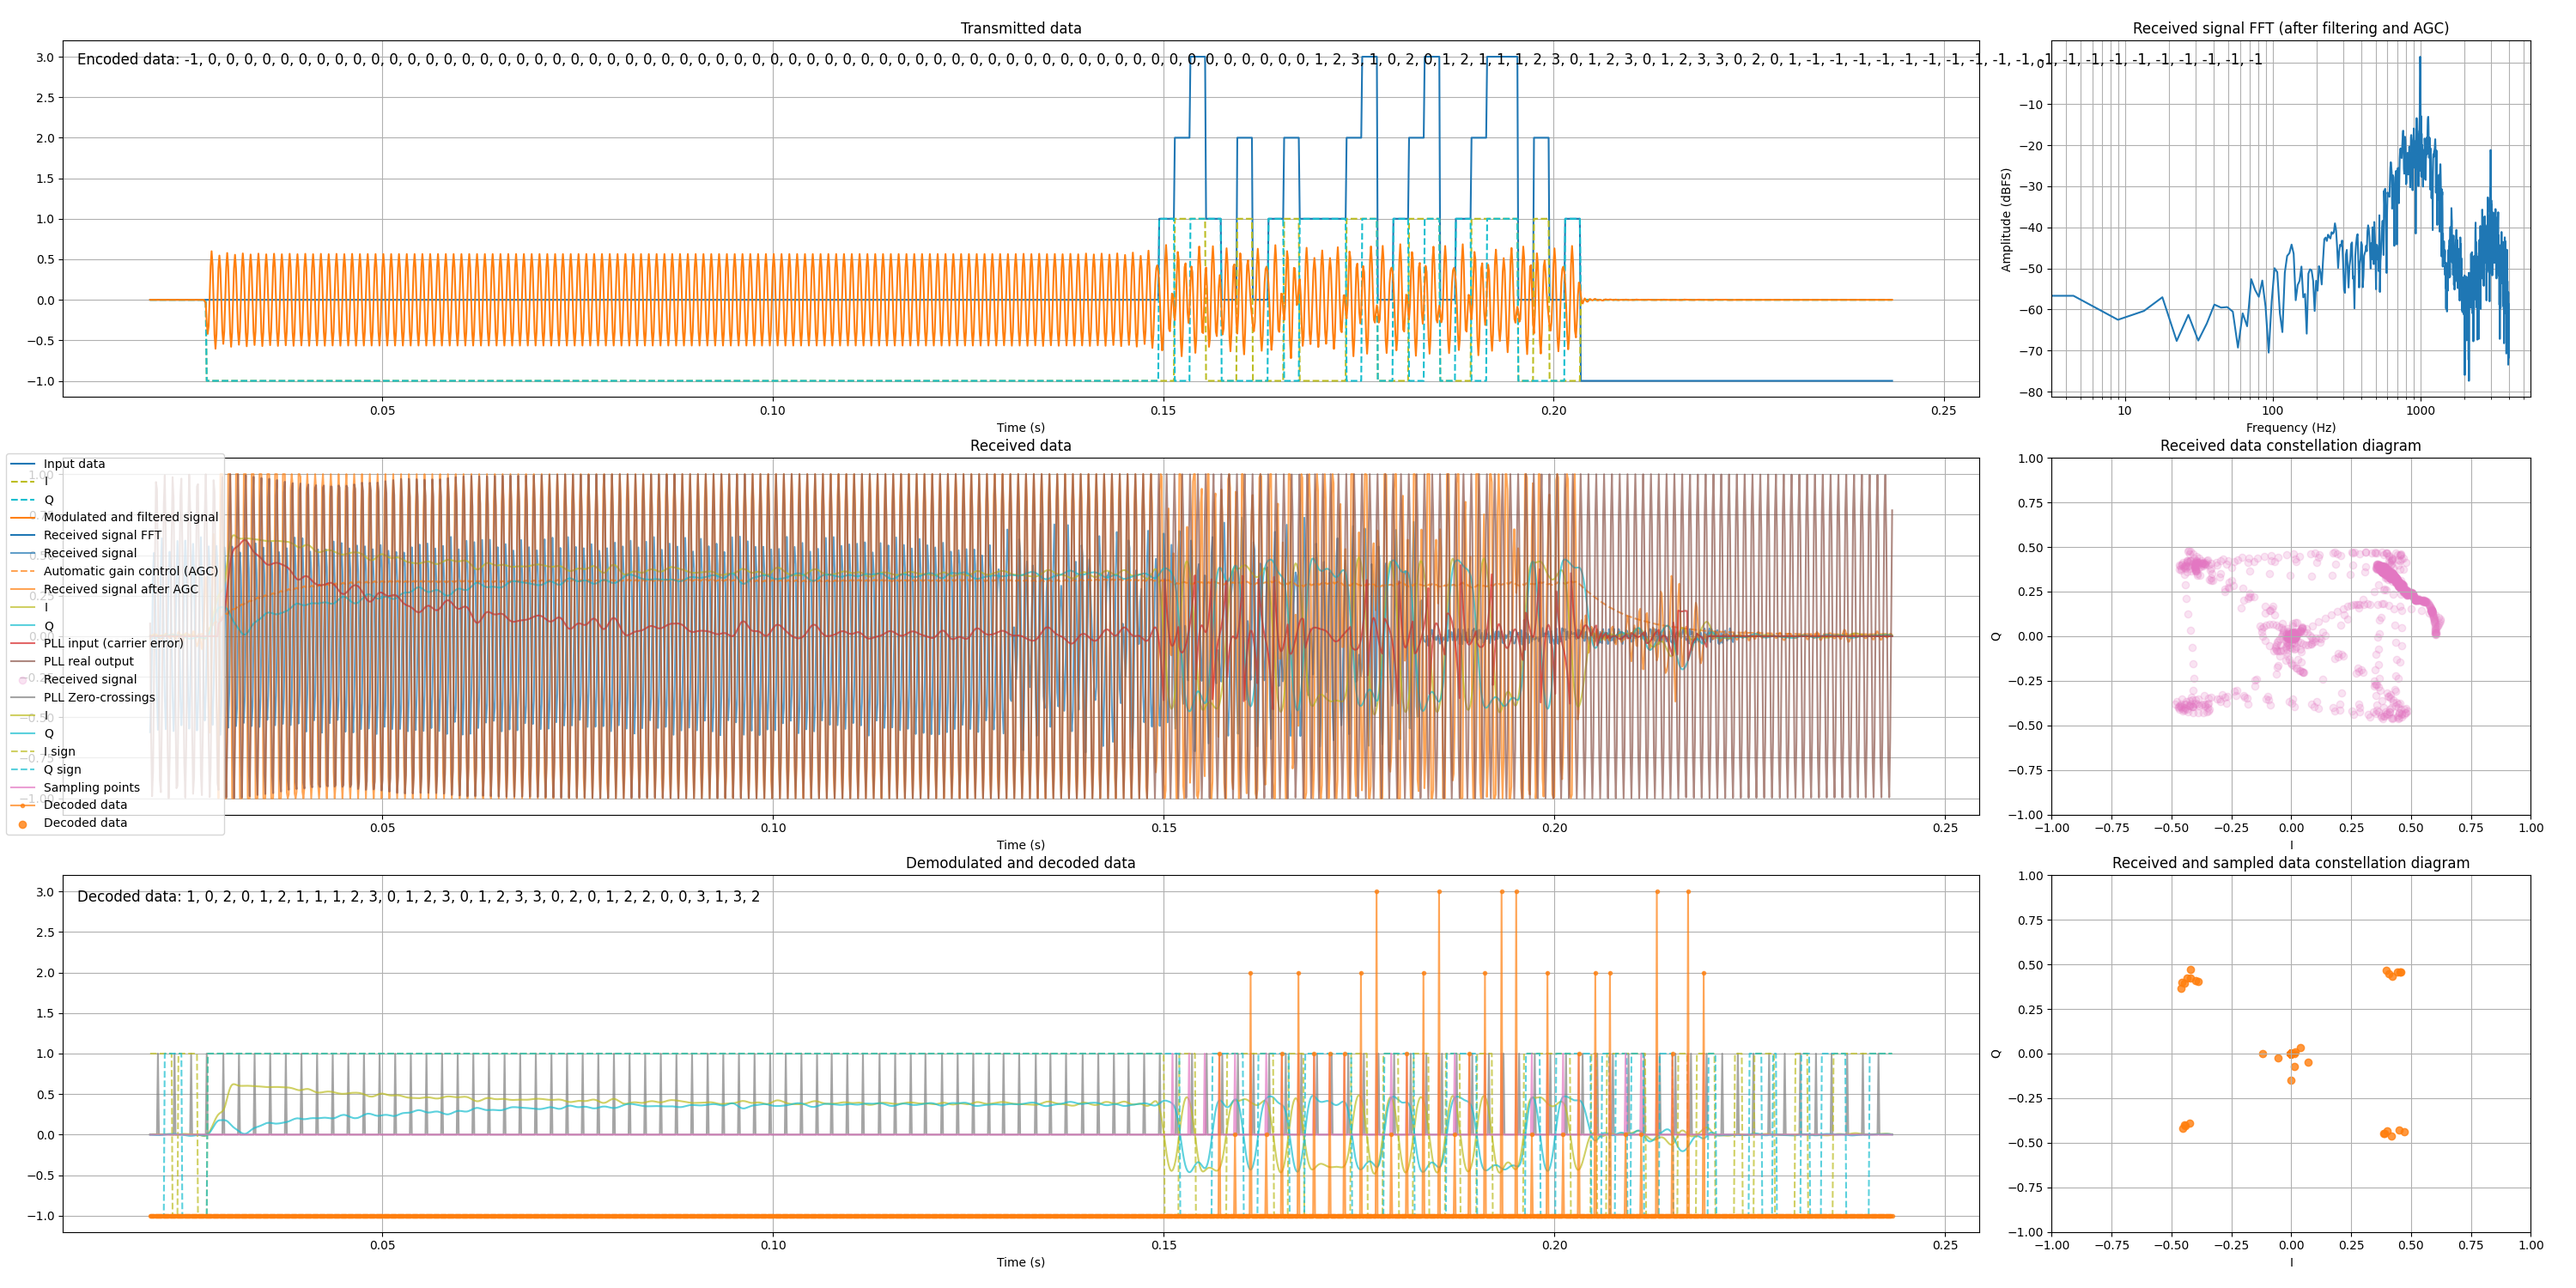
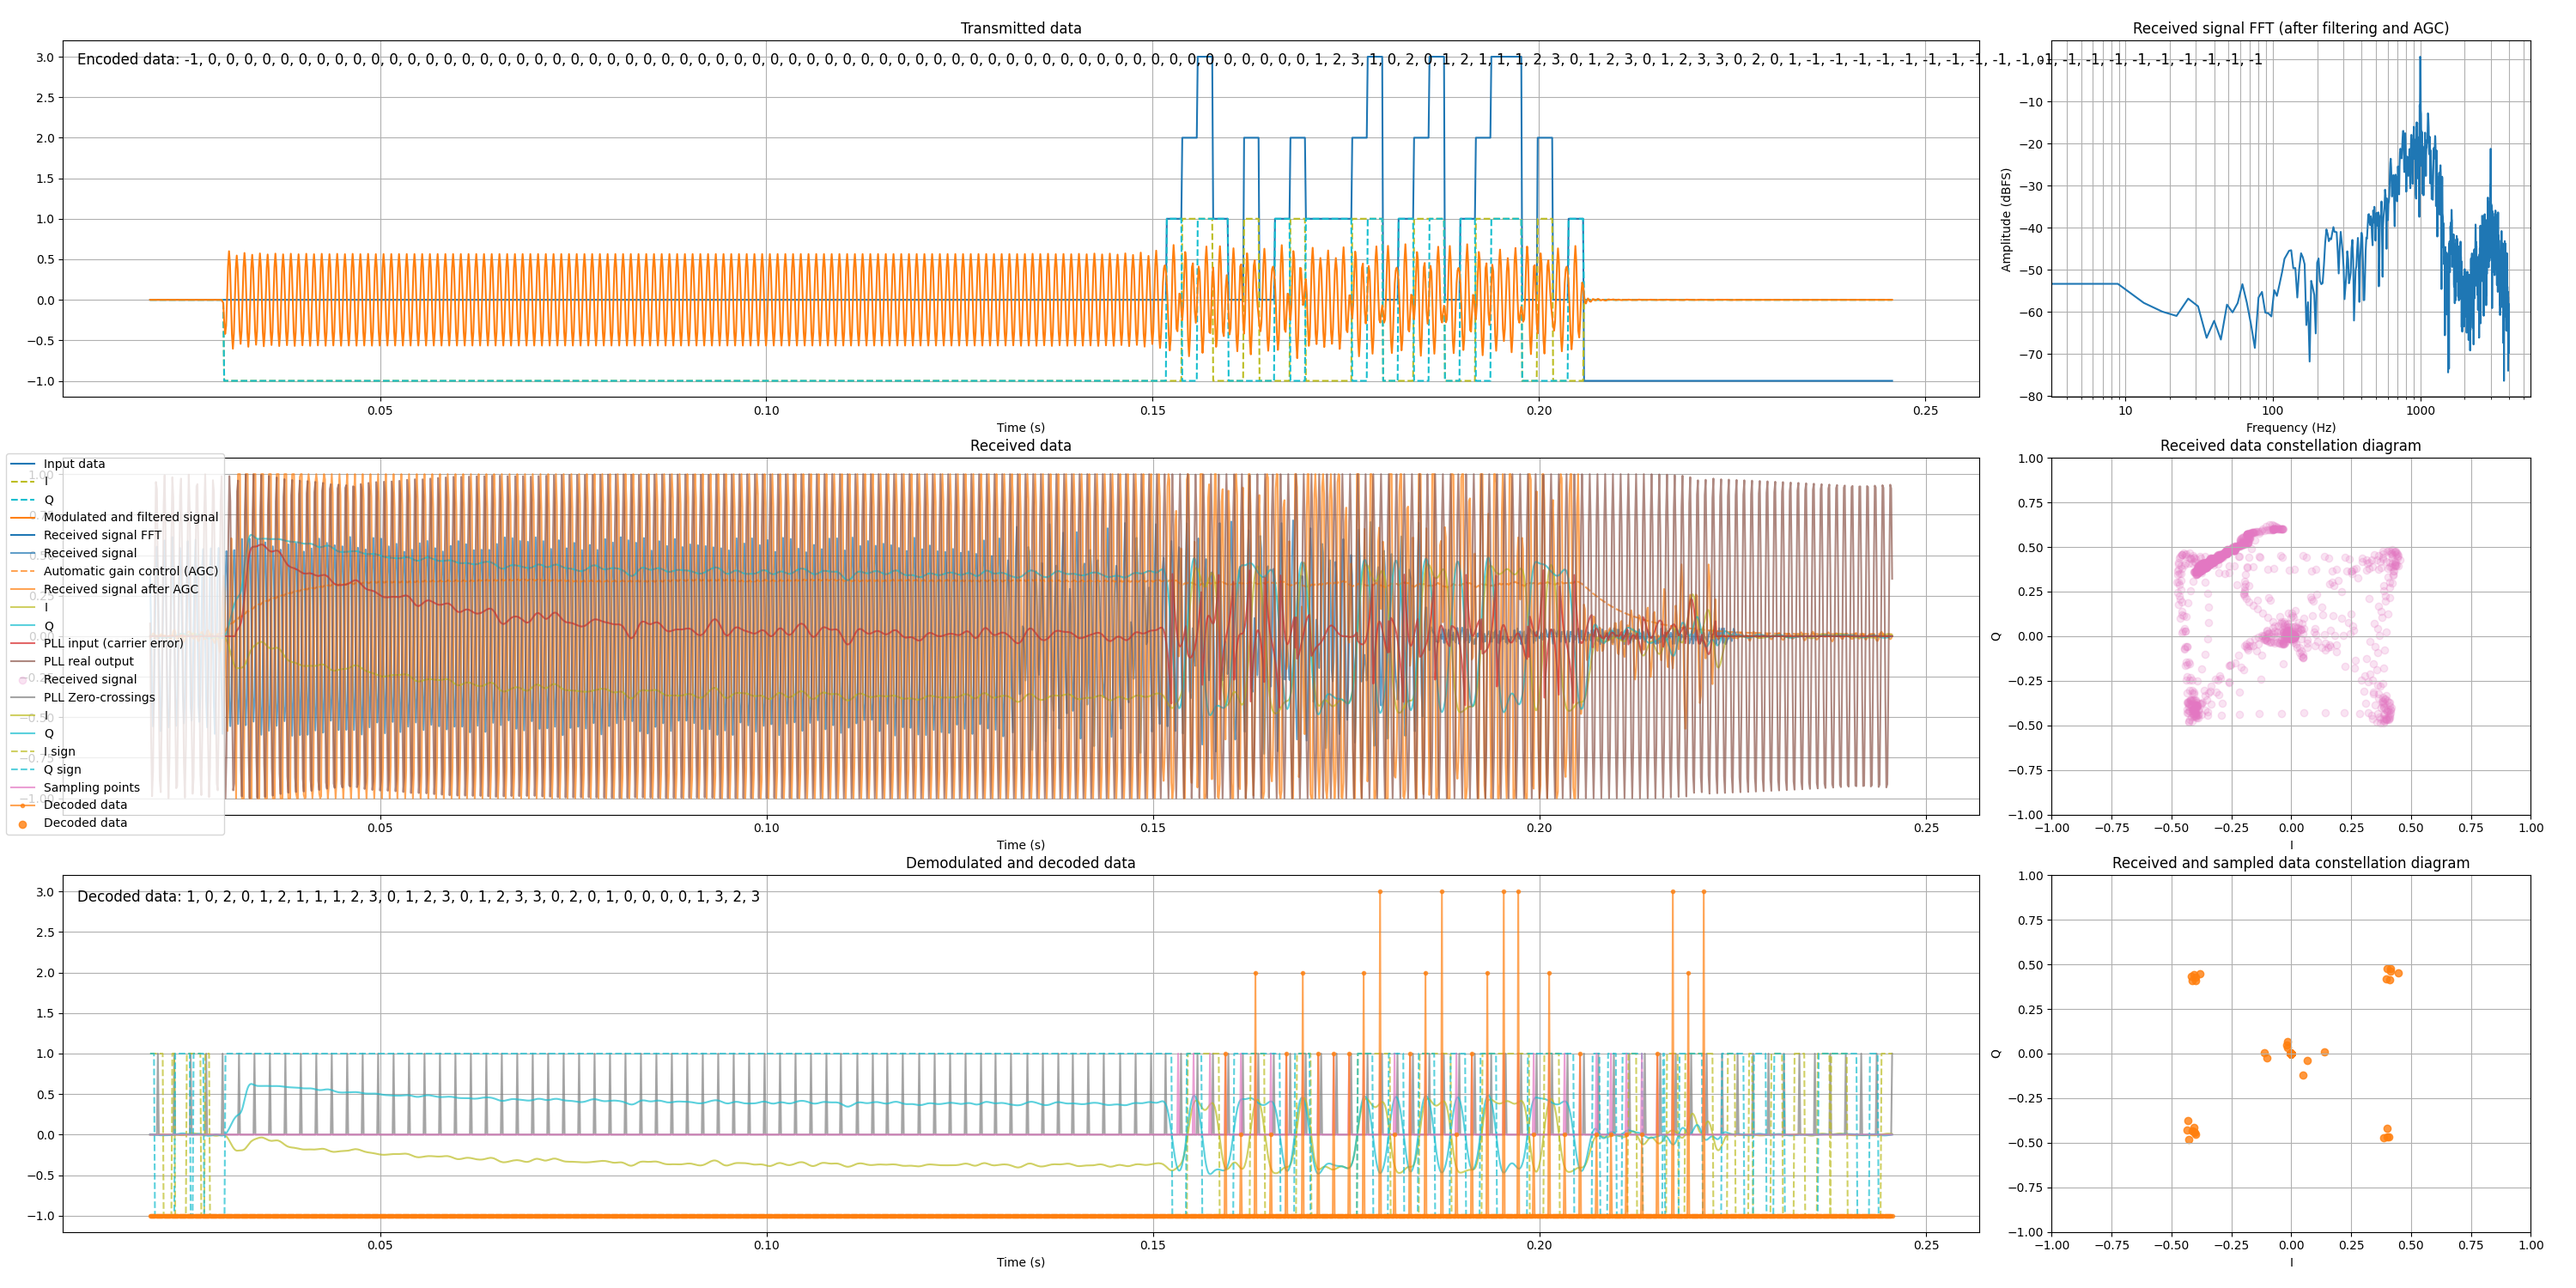
Update PLL

diff --git a/main.py b/main.py
@@ -194,7 +194,7 @@ class DPLL:
         self.frequency_filtered = RECEIVER_CARRIER_FREQUENCY
         self.zero_crossing_flag = False
         self.omega = 0
-        self._omega_mod_prev = 0
+        self.halfcycles_counter = 0
 
     def step(self, error, sample_time) -> None:
         """
@@ -215,9 +215,38 @@ class DPLL:
         # Calculate base for sin and cos
         omega_prev = self.omega
         self.omega = 2 * np.pi * RECEIVER_CARRIER_FREQUENCY * sample_time + self.output_phase
+        self.omega %= (2 * np.pi)
+
+        # Calculate momentary phase difference
+        if self.omega > omega_prev:
+            omega_diff = self.omega - omega_prev
+        else:
+            omega_diff = (self.omega + (2 * np.pi)) - omega_prev
+
+        # Calculate current VCO frequency
+        self.frequency = (omega_diff / (2 * np.pi)) * SAMPLING_RATE
+        if self.frequency > 0:
+            self.frequency_filtered = self.frequency_filtered * self._frequency_filter_k \
+                                      + self.frequency * (1. - self._frequency_filter_k)
+
+        # Half-cycle detector
+        # omega_prev <= np.pi <= self.omega and self.omega != omega_prev -> pi cross
+        # omega_prev > self.omega -> 2*pi cross
+        if (omega_prev <= np.pi <= self.omega != omega_prev) or omega_prev > self.omega:
+            self.halfcycles_counter += 1
+
+        # Symbol rate detector (aka Zero-crossing detector) @ HALFCYCLES_PER_SYMBOL * PI (symbol rate)
+        if self.halfcycles_counter >= HALFCYCLES_PER_SYMBOL:
+            self.halfcycles_counter = 0
+            self.zero_crossing_flag = True
+
+        """
 
         # Calculate current frequency
-        self.frequency = ((self.omega - omega_prev) / (2 * np.pi)) * SAMPLING_RATE
+        if self.omega > omega_prev:
+            self.frequency = ((self.omega - omega_prev) / (2 * np.pi)) * SAMPLING_RATE
+        else:
+            self.frequency = ((omega_prev - self.omega) / (2 * np.pi)) * SAMPLING_RATE
         if self.frequency > 0:
             self.frequency_filtered = self.frequency_filtered * self._frequency_filter_k \
                                       + self.frequency * (1. - self._frequency_filter_k)
@@ -230,6 +259,11 @@ class DPLL:
             self._omega_mod_prev = omega_mod
             self.zero_crossing_flag = True
         self._omega_mod_prev = omega_mod
+
+        
+
+        self.omega %= 2 * np.pi
+        """
 
         # Calculate complex output
         vco_real = np.cos(self.omega)

diff --git a/README.md b/README.md
@@ -32,55 +32,55 @@ TX_DATA = [-1] + [0] * 60 + [0, 1, 2, 3] + string_to_qpsk_array("Hello!") + [-1]
 Program output:
 ```
 Generated 1729 samples. Total time: ~0.236s
-Added ~0.007s (56 samples) of delay
-Carrier detected @ ~0.029s
-PLL locked @ ~0.118s. VCO: ~999.64Hz (error between 950.0Hz: 52254ppm). I: 1, Q: 1
-Detected phase change @ ~0.150s. Sampling position: 13 samples after zero-cross
-IQ values of phase 1 recorded @ ~0.151s. I: -1, Q: 1
-IQ values of phase 2 recorded @ ~0.153s. I: 1, Q: -1
-IQ values of phase 3 recorded @ ~0.155s. I: -1, Q: -1
-Decoded data @ ~0.157s: 1 (0b01)
-Decoded data @ ~0.159s: 0 (0b00)
-Decoded data @ ~0.161s: 2 (0b10)
-Decoded data @ ~0.163s: 0 (0b00)
+Added ~0.009s (75 samples) of delay
+Carrier detected @ ~0.031s
+PLL locked @ ~0.115s. VCO: ~999.83Hz (error between 950.0Hz: 52449ppm). I: -1, Q: 1
+Detected phase change @ ~0.152s. Sampling position: 13 samples after zero-cross
+IQ values of phase 1 recorded @ ~0.153s. I: -1, Q: -1
+IQ values of phase 2 recorded @ ~0.155s. I: 1, Q: 1
+IQ values of phase 3 recorded @ ~0.157s. I: 1, Q: -1
+Decoded data @ ~0.159s: 1 (0b01)
+Decoded data @ ~0.161s: 0 (0b00)
+Decoded data @ ~0.163s: 2 (0b10)
+Decoded data @ ~0.165s: 0 (0b00)
 Decoded byte: 0b01001000, char: H
-Decoded data @ ~0.165s: 1 (0b01)
-Decoded data @ ~0.167s: 2 (0b10)
-Decoded data @ ~0.169s: 1 (0b01)
+Decoded data @ ~0.167s: 1 (0b01)
+Decoded data @ ~0.169s: 2 (0b10)
 Decoded data @ ~0.171s: 1 (0b01)
-Decoded byte: 0b01100101, char: e
 Decoded data @ ~0.173s: 1 (0b01)
-Decoded data @ ~0.175s: 2 (0b10)
-Decoded data @ ~0.177s: 3 (0b11)
-Decoded data @ ~0.179s: 0 (0b00)
+Decoded byte: 0b01100101, char: e
+Decoded data @ ~0.175s: 1 (0b01)
+Decoded data @ ~0.177s: 2 (0b10)
+Decoded data @ ~0.179s: 3 (0b11)
+Decoded data @ ~0.181s: 0 (0b00)
 Decoded byte: 0b01101100, char: l
-Decoded data @ ~0.181s: 1 (0b01)
-Decoded data @ ~0.183s: 2 (0b10)
-Decoded data @ ~0.185s: 3 (0b11)
-Decoded data @ ~0.187s: 0 (0b00)
+Decoded data @ ~0.183s: 1 (0b01)
+Decoded data @ ~0.185s: 2 (0b10)
+Decoded data @ ~0.187s: 3 (0b11)
+Decoded data @ ~0.189s: 0 (0b00)
 Decoded byte: 0b01101100, char: l
-Decoded data @ ~0.189s: 1 (0b01)
-Decoded data @ ~0.191s: 2 (0b10)
-Decoded data @ ~0.193s: 3 (0b11)
+Decoded data @ ~0.191s: 1 (0b01)
+Decoded data @ ~0.193s: 2 (0b10)
 Decoded data @ ~0.195s: 3 (0b11)
+Decoded data @ ~0.197s: 3 (0b11)
 Decoded byte: 0b01101111, char: o
-Decoded data @ ~0.197s: 0 (0b00)
-Decoded data @ ~0.199s: 2 (0b10)
-Decoded data @ ~0.201s: 0 (0b00)
-Decoded data @ ~0.203s: 1 (0b01)
+Decoded data @ ~0.199s: 0 (0b00)
+Decoded data @ ~0.201s: 2 (0b10)
+Decoded data @ ~0.203s: 0 (0b00)
+Decoded data @ ~0.205s: 1 (0b01)
 Decoded byte: 0b00100001, char: !
-Decoded data @ ~0.205s: 2 (0b10)
-Decoded data @ ~0.207s: 2 (0b10)
+Decoded data @ ~0.207s: 0 (0b00)
 Decoded data @ ~0.209s: 0 (0b00)
 Decoded data @ ~0.211s: 0 (0b00)
-Decoded byte: 0b10100000, char:  
-Decoded data @ ~0.213s: 3 (0b11)
+Decoded data @ ~0.213s: 0 (0b00)
+Decoded byte: 0b00000000, char:  
 Decoded data @ ~0.215s: 1 (0b01)
 Decoded data @ ~0.217s: 3 (0b11)
 Decoded data @ ~0.219s: 2 (0b10)
-Decoded byte: 0b11011110, char: Þ
-Carrier lost and PLL unlocked @ ~0.220s
-Processing finished. Took 0.277s
+Decoded data @ ~0.221s: 3 (0b11)
+Decoded byte: 0b01111011, char: {
+Carrier lost and PLL unlocked @ ~0.223s
+Processing finished. Took 0.280s
 ```
 
 As you can see the message is received and decoded successfully:
